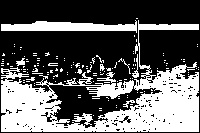
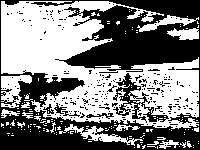
cambios

diff --git a/src/segmentado_difuso2.py b/src/segmentado_difuso2.py
@@ -13,7 +13,7 @@ import cv2
 if len(argv) > 1:
     filename = join(dirname(dirname(abspath(__file__))), f"img/{argv[1]}")
 else:
-    filename = join(dirname(dirname(abspath(__file__))), "img/IMG_6830.jpeg")
+    filename = join(dirname(dirname(abspath(__file__))), "img/amanecer.jpeg")
 image2 = Image.open(filename)
 x, y = image2.size
 image = image2.resize((200, int(y*200/x)))  # Redimensionar para simplificar el procesamiento
@@ -29,7 +29,7 @@ pixels = np.reshape(image_np, (-1, 3))
 pixels = pixels / 255.0
 
 # Paso 3: Aplicar FCM
-n_clusters = 4  # Número de clusters
+n_clusters = 3  # Número de clusters
 cntr, u, u0, d, jm, p, fpc = fuzz.cluster.cmeans(
     pixels.T, n_clusters, 100, error=0.00005, maxiter=100000, init=None)
 
@@ -144,7 +144,7 @@ cv2.destroyAllWindows()
 
 # Convertir la imagen a escala de grises
 image_gray = cv2.cvtColor(original, cv2.COLOR_BGR2GRAY)
-def segment_and_identify_objects(image_gray, mask_binary, block_size=15, threshold_area=160):
+def segment_and_identify_objects(image_gray, mask_binary, block_size=15, threshold_area=150):
 # Paso 2: Analizar bloques de 12x12 píxeles
     height, width, chanel = image_gray.shape
     rects = []  # Lista para almacenar los rectángulos detectados
@@ -162,73 +162,92 @@ def segment_and_identify_objects(image_gray, mask_binary, block_size=15, thresho
             green_pixel_count = np.sum(green_pixels)
             #print(green_pixel_count)
             #qprint(black_pixel_count)
-            n=0
             # Si el bloque contiene suficientes píxeles negros y tiene contorno en la máscara, marcar el bloque
-            if black_pixel_count > threshold_area and green_pixel_count > 0:
+            if black_pixel_count > threshold_area and green_pixel_count> 0:
                 rects.append((x, y, block_size, block_size))  # Almacena el 
-                n=n+1
+    n=len(rects)
+    print(n)
  # Paso 3: Detectar y marcar rectángulos alineados horizontalmente que cubren toda la fila
     blocks_per_row = int(width // block_size)  # Número de bloques que caben en una fila
+    blocks_per_column = int(height // block_size)
+    rects_by_column= {}
     rects_by_row = {}
     for rect in rects:
         x, y, w, h = rect
+        if x not in rects_by_column:
+            rects_by_column[x] = []
+        rects_by_column[x].append(rect)
+    for rect1 in rects:
+        x, y, w, h = rect1
         if y not in rects_by_row:
             rects_by_row[y] = []
-        rects_by_row[y].append(rect)
-    
+        rects_by_row[y].append(rect1)
+        # Criterio: número mínimo de rectángulos para marcar la columna en amarillo
+# Función para marcar filas en azul
     def mark_row_blue(row_rects):
         for rect in row_rects:
             x, y, w, h = rect
             cv2.rectangle(original, (x, y), (x + w, y + h), (255, 0, 0), 2)  # Azul
 
+    # Función para marcar columnas en amarillo
+    def mark_column_yellow(column_rects):
+        for rect in column_rects:
+            x, y, w, h = rect
+            cv2.rectangle(original, (x, y), (x + w, y + h), (0, 255, 255), 2)  # Amarillo
+
+    # Función para marcar rectángulos en rojo
+    def mark_rect_red(rect):
+        x, y, w, h = rect
+        cv2.rectangle(original, (x, y), (x + w, y + h), (0, 0, 255), 2)  # Rojo
+
+    # Verificar y marcar filas completas
     for y, row_rects in rects_by_row.items():
-        # Ordenar los rectángulos en la fila por la coordenada x
         row_rects.sort()
-        a=0
         if len(row_rects) == blocks_per_row:
-            a=a+1
-            print(a)
-            # Verificar si los rectángulos cubren toda la fila
             first_rect_x = row_rects[0][0]
-            last_rect_x = row_rects[-1][0] + block_size
+            last_rect_x = row_rects[-1][0] + row_rects[-1][2]
             mark_row_blue(row_rects)
-                # Pintar en azul si cubren toda la fila
-                # Verificar las filas superior e inferior
-            top_y = y - block_size
-            bottom_y = y + block_size
-            # Verificar la fila superior
+
+            # Verificar y marcar la fila superior si está alineada
+            top_y = y - row_rects[0][3]
             if top_y in rects_by_row:
                 top_row_rects = rects_by_row[top_y]
                 top_first_x = top_row_rects[0][0]
                 top_last_x = top_row_rects[-1][0] + top_row_rects[-1][2]
-                
-                print("Fila superior - Primera coordenada x:", top_first_x)
-                print("Fila superior - Última coordenada x:", top_last_x)
-                
-                # Verificar alineación con la fila actual marcada en azul
                 if (top_first_x <= first_rect_x <= top_last_x) or (top_first_x <= last_rect_x <= top_last_x):
                     mark_row_blue(top_row_rects)
-                    print("Fila superior marcada en azul.")
 
-            # Verificar la fila inferior
+            # Verificar y marcar la fila inferior si está alineada
+            bottom_y = y + row_rects[0][3]
             if bottom_y in rects_by_row:
                 bottom_row_rects = rects_by_row[bottom_y]
                 bottom_first_x = bottom_row_rects[0][0]
                 bottom_last_x = bottom_row_rects[-1][0] + bottom_row_rects[-1][2]
-                
-                print("Fila inferior - Primera coordenada x:", bottom_first_x)
-                print("Fila inferior - Última coordenada x:", bottom_last_x)
-                
-                # Verificar alineación con la fila actual marcada en azul
                 if (bottom_first_x <= first_rect_x <= bottom_last_x) or (bottom_first_x <= last_rect_x <= bottom_last_x):
                     mark_row_blue(bottom_row_rects)
-                    print("Fila inferior marcada en azul.")
-        else:
-            # Pintar en rojo si no cubren toda la fila
-            for rect in row_rects:
-                x, y, w, h = rect
-                cv2.rectangle(original, (x, y), (x + w, y + h), (0, 0, 255), 2)  # Rojo
 
+    # Verificar y marcar columnas completas
+    for column_x, column_rects in rects_by_column.items():
+        if len(column_rects) == blocks_per_column:
+            mark_column_yellow(column_rects)
+
+    # Marcar el resto de los rectángulos en rojo
+    for rect in rects:
+        x, y, w, h = rect
+        color = original[y, x]
+        if (color == [0, 0, 255]).all() or (color == [0, 255, 255]).all() or (color == [255, 0, 0]).all():
+            continue
+        else:
+            mark_rect_red(rect)
+
+    # Verificar y marcar columnas completas (incluso si ya están marcadas en azul)
+    for column_x, column_rects in rects_by_column.items():
+        if len(column_rects) == blocks_per_column:
+            for rect in column_rects:
+                x, y, w, h = rect
+                color = original[y, x]
+                if (color == [255, 0, 0]).all():  # Si está marcado en azul
+                    cv2.rectangle(original, (x, y), (x + w, y + h), (0, 255, 255), 2)  # Amarillo
 
 
     # Mostrar la imagen con los bloques marcados
